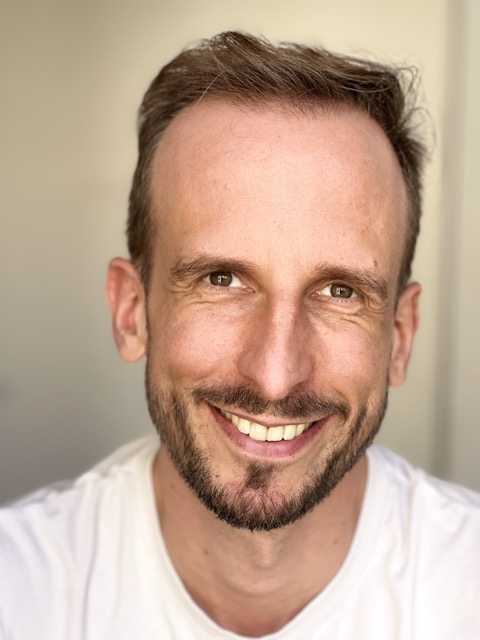
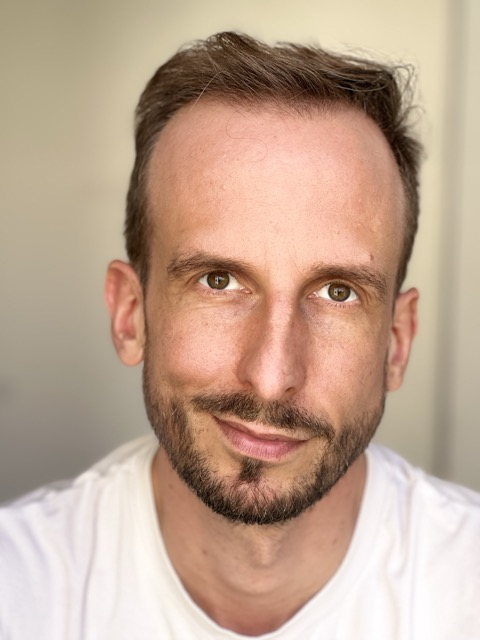
Pair Who visits with testimonials and give Stephen’s portraits a clearer home.

diff --git a/src/styles/pluma-studio-overrides.css b/src/styles/pluma-studio-overrides.css
@@ -412,6 +412,49 @@ html.dark .psl-field input {
   background: var(--psl-forest);
 }
 
+.psl-audience {
+  display: grid;
+  gap: var(--psl-space-12);
+}
+
+@media (min-width: 992px) {
+  .psl-audience {
+    grid-template-columns: minmax(16rem, 0.42fr) minmax(0, 1fr);
+    align-items: start;
+    column-gap: clamp(32px, 4vw, 72px);
+    row-gap: var(--psl-space-8);
+  }
+
+  .psl-audience__head {
+    grid-column: 1 / -1;
+    margin-bottom: 0;
+  }
+
+  .psl-audience__quotes {
+    min-width: 0;
+  }
+
+  .psl-audience .psl-client-mix__wheel {
+    width: min(100%, 14.5rem);
+  }
+
+  .psl-audience .psl-client-mix__legend {
+    font-size: var(--psl-type-body);
+  }
+
+  .psl-audience .psl-quote {
+    padding-block: var(--psl-space-4);
+  }
+
+  .psl-audience .psl-quote blockquote {
+    max-width: 28ch;
+  }
+
+  .psl-audience .psl-collage {
+    margin-top: var(--psl-space-6);
+  }
+}
+
 .psl-feature-list {
   display: grid;
   grid-template-columns: 1fr 1fr;
@@ -515,7 +558,7 @@ html.dark .psl-feature-list__icon img {
   aspect-ratio: 1;
   border-radius: var(--psl-radius-media);
   object-fit: cover;
-  object-position: 50% 18%;
+  object-position: 50% 42%;
   box-shadow: 0 10px 28px rgb(0 0 0 / 28%);
   outline: 3px solid var(--psl-canvas);
 }
@@ -525,6 +568,8 @@ html.dark .psl-feature-list__icon img {
   right: 16px;
   width: max-content;
   max-width: calc(100% - min(42%, 11.5rem) - 40px);
+  line-height: 1.35;
+  text-wrap: pretty;
 }
 
 .psl-feature__stills {
@@ -555,7 +600,7 @@ html.dark .psl-feature-list__icon img {
 }
 
 .psl-photo-cluster__card {
-  flex: 0 0 min(78%, 17.5rem);
+  flex: 0 0 min(55%, 12.25rem);
   margin: 0;
   scroll-snap-align: start;
 }
@@ -1030,6 +1075,39 @@ button.psl-button {
 
 .psl-page .psl-copy {
   max-width: 55ch;
+}
+
+.psl-about-stephen {
+  display: grid;
+  gap: var(--psl-space-8);
+  align-items: center;
+}
+
+.psl-about-stephen__portrait {
+  margin: 0;
+}
+
+.psl-about-stephen__portrait img {
+  display: block;
+  width: min(100%, 22rem);
+  height: auto;
+  border-radius: var(--psl-radius-media);
+  background: var(--psl-surface-sage);
+}
+
+@media (min-width: 768px) {
+  .psl-about-stephen {
+    grid-template-columns: minmax(18rem, 24rem) minmax(0, 1fr);
+    gap: var(--psl-space-12);
+  }
+
+  .psl-about-stephen__portrait img {
+    width: 100%;
+  }
+
+  .psl-about-stephen .psl-copy {
+    max-width: 48ch;
+  }
 }
 
 .psl-booking-embed {

diff --git a/src/i18n/translations.ts b/src/i18n/translations.ts
@@ -132,7 +132,7 @@ export const translations = {
       stephen:
         "I'm Stephen, your certified masseur. I welcome you into my home studio with the same care I bring to every session — warm, unhurried, and focused on what you ask for.",
       stephenPhotoAlt: "Stephen, certified masseur at the pluma home studio",
-      credential: "Stephen · your certified masseur",
+      credential: "Hola, Hi, Salut, I'm your certified masseur and creator of pluma",
     },
     types: {
       title: "Types and techniques",
@@ -700,7 +700,7 @@ export const translations = {
       stephen:
         "Soy Stephen, tu masajista certificado. Te recibo en mi estudio en casa con el mismo cuidado que pongo en cada sesión — cercano, sin prisas y centrado en lo que me pidas.",
       stephenPhotoAlt: "Stephen, masajista certificado en el estudio en casa pluma",
-      credential: "Stephen · masajista certificado",
+      credential: "Hola, Hi, Salut, soy tu masajista certificado y creador de pluma",
     },
     types: {
       title: "Tipos y técnicas",

diff --git a/src/pages/HomePage.tsx b/src/pages/HomePage.tsx
@@ -34,6 +34,7 @@ export function HomePage() {
         imageAlt={t("about.stephenPhotoAlt")}
         imagePosition="64% 32%"
         portrait="/assets/images/stephen-portrait.jpg"
+        portraitAlt={t("about.stephenPhotoAlt")}
         actionLabelKey="hero.learnMore"
         actionTo="/about"
         badge={t("about.credential")}
@@ -44,8 +45,16 @@ export function HomePage() {
       <MassageTypes />
 
       <BenefitsMosaic />
-      <ClientMix />
-      <EditorialQuote />
+      <div className="psl-container psl-section--roomy psl-audience">
+        <div className="psl-section-head psl-section-head--stack psl-audience__head">
+          <h2 id="clients-heading" className="psl-title">
+            {t("clients.title")}
+          </h2>
+          <p className="psl-copy">{t("clients.description")}</p>
+        </div>
+        <ClientMix />
+        <EditorialQuote />
+      </div>
       <PromoRibbon />
       <FAQ />
       <BookingCTA />

diff --git a/src/components/ClientMix.tsx b/src/components/ClientMix.tsx
@@ -24,15 +24,8 @@ export function ClientMix() {
   return (
     <section
       aria-labelledby="clients-heading"
-      className="psl-container psl-section--roomy"
+      className="psl-audience__mix"
     >
-      <div className="psl-section-head psl-section-head--stack">
-        <h2 id="clients-heading" className="psl-title">
-          {t("clients.title")}
-        </h2>
-        <p className="psl-copy">{t("clients.description")}</p>
-      </div>
-
       <div className="psl-client-mix">
         <div className="psl-client-mix__wheel">
           <svg

diff --git a/src/components/About.tsx b/src/components/About.tsx
@@ -40,7 +40,16 @@ export function About() {
         </div>
       </section>
 
-      <div className="psl-container psl-page">
+      <div className="psl-container psl-page psl-about-stephen">
+        <figure className="psl-about-stephen__portrait">
+          <img
+            src="/assets/images/stephen-portrait-smile.jpg"
+            alt={t("about.stephenPhotoAlt")}
+            width={480}
+            height={640}
+            loading="lazy"
+          />
+        </figure>
         <p className="psl-copy">{t("about.stephen")}</p>
       </div>
 

diff --git a/src/components/EditorialQuote.tsx b/src/components/EditorialQuote.tsx
@@ -90,7 +90,7 @@ export function EditorialQuote() {
     <section
       ref={sectionRef}
       aria-labelledby="quote-heading"
-      className="psl-container psl-section"
+      className="psl-audience__quotes"
       // Rotation stops while a pointer or the keyboard is inside the section,
       // so the quote cannot change out from under someone reading it.
       onMouseEnter={() => setInteracting(true)}
